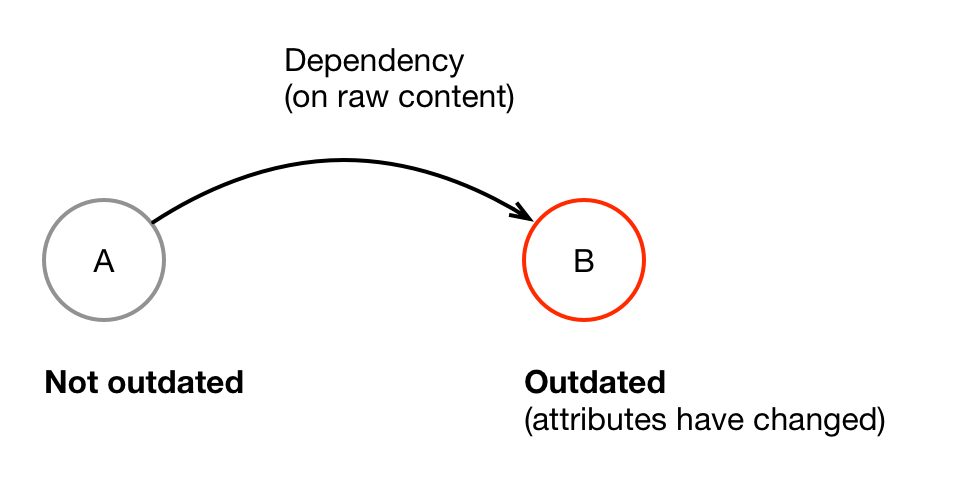
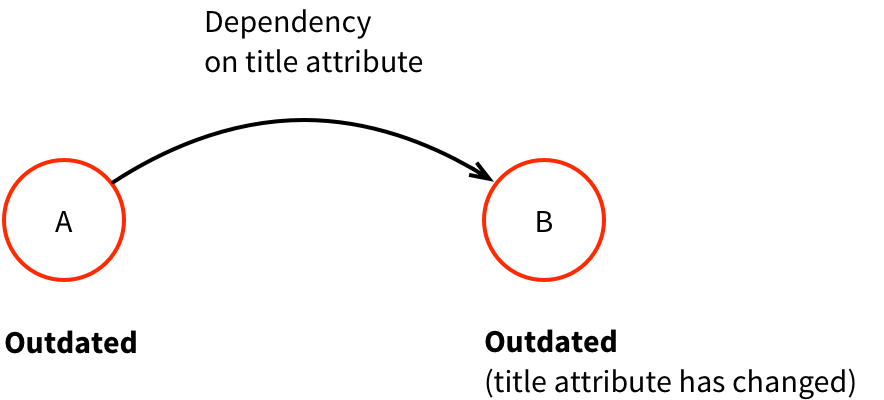
Update internals page to reflect fine-grained dependencies

diff --git a/content/assets/style/_figures.scss b/content/assets/style/_figures.scss
@@ -29,7 +29,7 @@ figure.compact {
     padding: 10px 0;
     margin: 0 auto;
 
-    width: 300px;
-    height: auto;
+    width: auto;
+    height: 180px;
   }
 }
